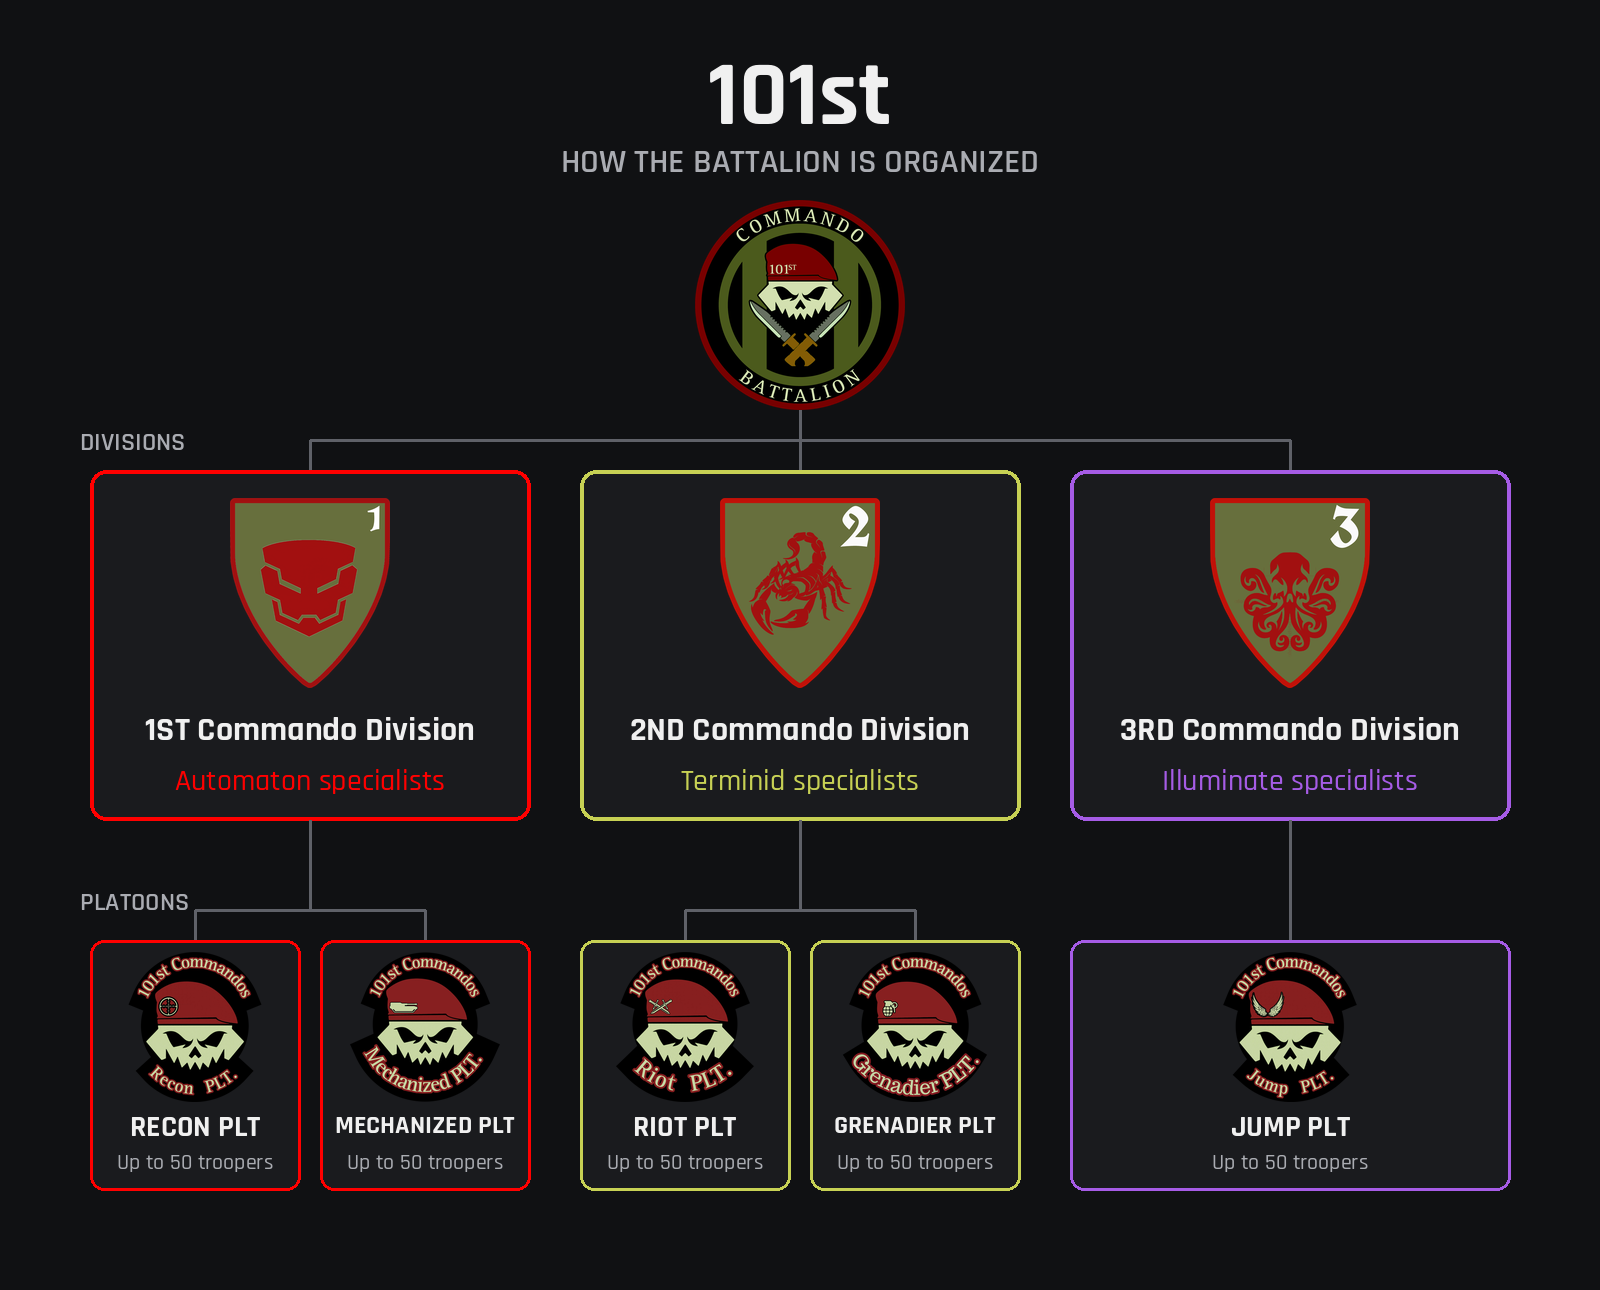
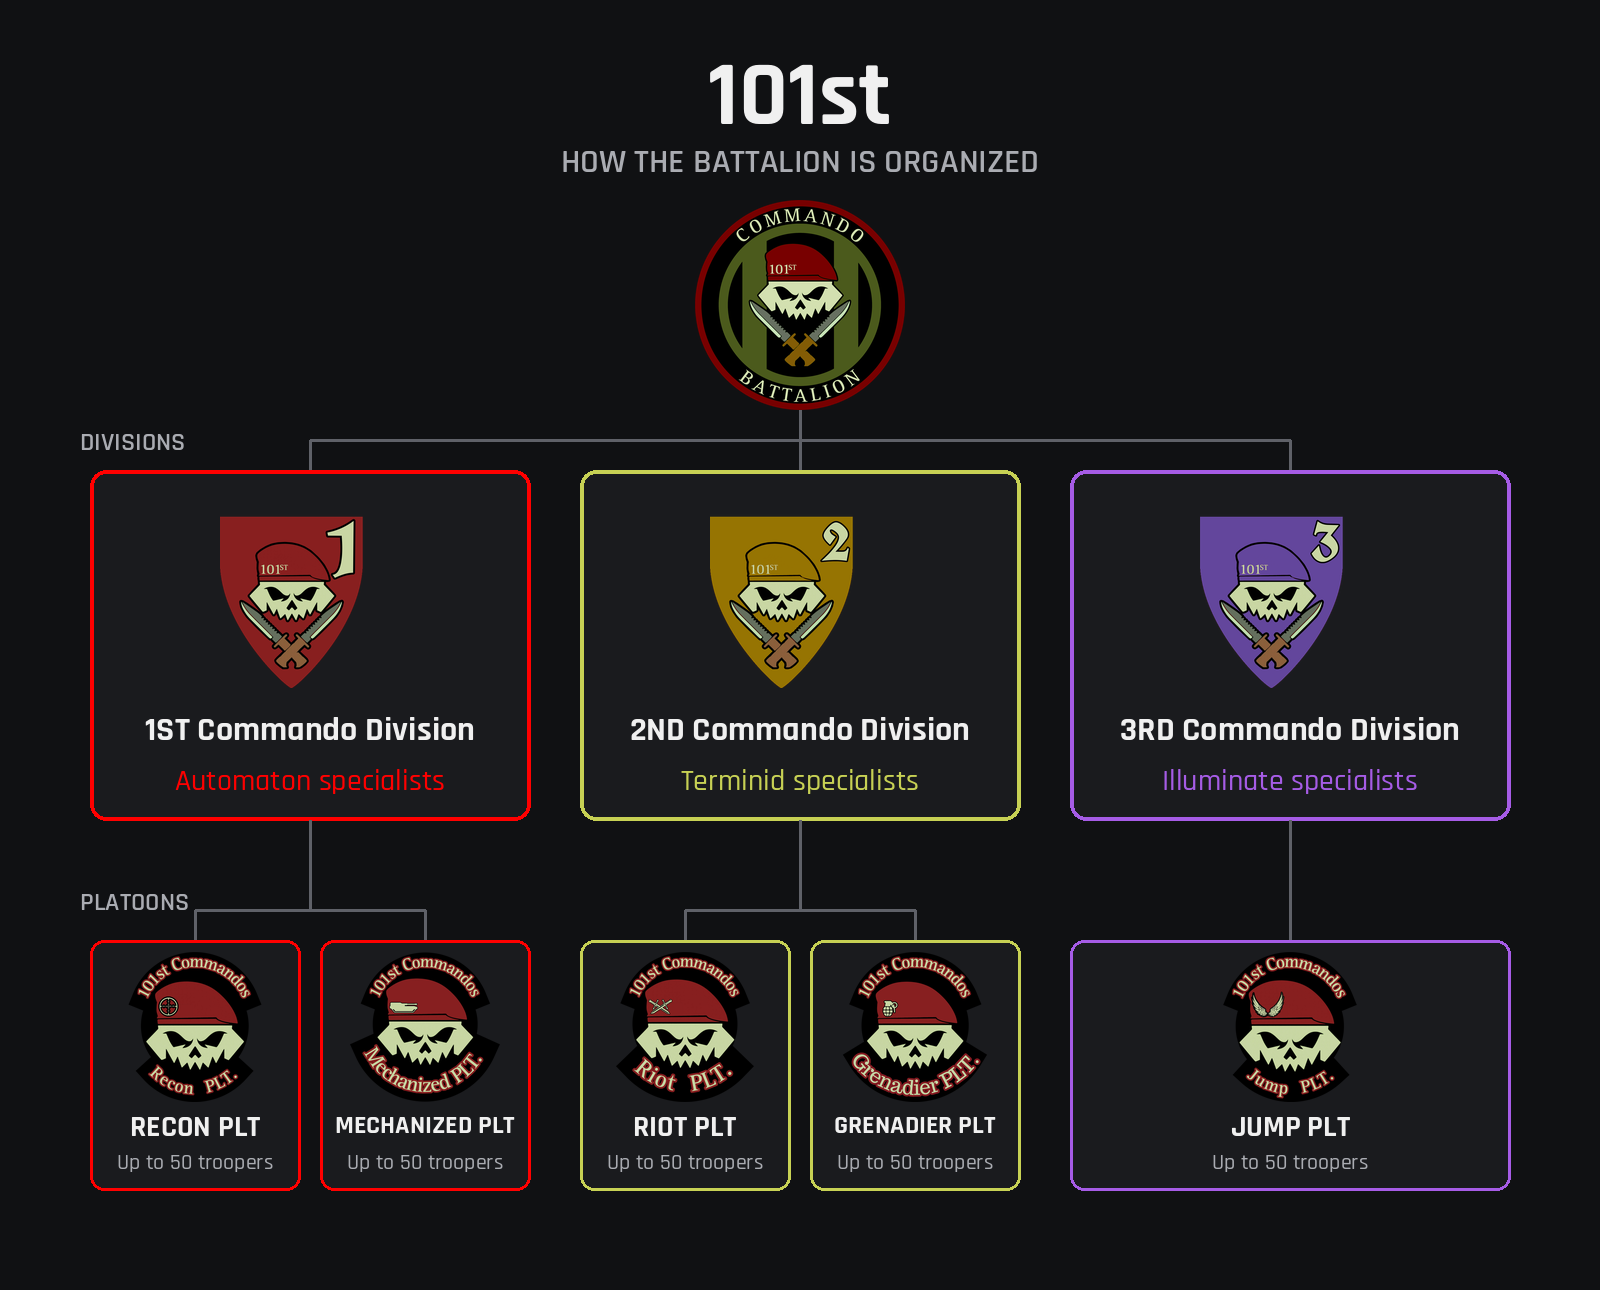
New division patches in structure chart; remove old olive division patches; CMDR Maximus title

Changed region(s): [[0.75, 0.3721, 0.875, 0.5581], [0.4375, 0.3721, 0.5625, 0.5271], [0.125, 0.3721, 0.25, 0.5271]]

diff --git a/index.html b/index.html
@@ -4,7 +4,7 @@
   <meta charset="utf-8">
   <meta name="viewport" content="width=device-width, initial-scale=1">
   <title>101st Commando Battalion | Helldivers 2 community</title>
-  <meta name="description" content="The 101st Commando Battalion is a player-run Helldivers 2 community led by Commander Maximus. Not an official Arrowhead site. Join the Discord at discord.gg/hpKS4ktKYc.">
+  <meta name="description" content="The 101st Commando Battalion is a player-run Helldivers 2 community led by CMDR Maximus. Not an official Arrowhead site. Join the Discord at discord.gg/hpKS4ktKYc.">
   <link rel="preconnect" href="https://fonts.googleapis.com">
   <link rel="preconnect" href="https://fonts.gstatic.com" crossorigin>
   <link href="https://fonts.googleapis.com/css2?family=Allerta+Stencil&family=Barlow:ital,wght@0,400;0,500;0,600;0,700;1,400&display=swap" rel="stylesheet">
@@ -41,7 +41,7 @@
           <h1 id="hero-title">101st Commando Battalion</h1>
           <p class="tagline">The 101st Commandos. Recon is in our blood.</p>
           <p class="lede">A community for players who want organised squads, plain callouts, and people who stick the landing together.</p>
-          <p class="byline">Run by Commander Maximus</p>
+          <p class="byline">Run by CMDR Maximus</p>
           <div class="hero-actions">
             <p class="cta-status">
               <a class="btn btn-waiting" href="https://discord.gg/hpKS4ktKYc" target="_blank" rel="noopener">Join the Discord</a>
@@ -65,7 +65,7 @@
         <div class="unit-layout">
           <div class="prose">
             <p>The 101st Commando Battalion is a Helldivers 2 community of three divisions fighting as one for Super Earth. Squads of four, every rank welcome, no diver left behind. Wear the beret, earn the knives.</p>
-            <p>It is run by Commander Maximus. This website is a front door for that community. It is not an official Arrowhead Game Studios site, and it is not endorsed by the developers.</p>
+            <p>It is run by CMDR Maximus. This website is a front door for that community. It is not an official Arrowhead Game Studios site, and it is not endorsed by the developers.</p>
             <p>Members come here to find reliable teammates: people who mark a patrol before they throw a stratagem, who talk in plain language, and who would rather extract together than chase a highlight. Bring a microphone if you have one, and a bit of patience for the rest of the squad.</p>
             <p>Nothing on this page is an in-game rank, a studio announcement, or a record of service. It is a fan community with a military-sci-fi name, full stop.</p>
           </div>
@@ -177,7 +177,7 @@
 
 Target: 50,000 kills combined across all fronts.
 
-Commander Maximus has ordered the 3rd Commando Division, the 2nd Commando Division, and the 1st Commando Division to take the fight to every front and bring back scalps. The objective is 50,000 kills, combined across the Illuminate, Terminid, and Automaton fronts.
+CMDR Maximus has ordered the 3rd Commando Division, the 2nd Commando Division, and the 1st Commando Division to take the fight to every front and bring back scalps. The objective is 50,000 kills, combined across the Illuminate, Terminid, and Automaton fronts.
 Deadline: Saturday.
 Prize: a US$25 gift card of their choice. The winning division picks its most deserving trooper to receive it.
 Give no quarter.
@@ -200,7 +200,7 @@ Give no quarter.
   <footer class="site-footer">
     <div class="wrap footer-grid">
       <p class="footer-name">101st Commando Battalion</p>
-      <p>A Helldivers 2 player community run by Commander Maximus. Fan-made. Not affiliated with Arrowhead Game Studios or the publishers of Helldivers 2. No official logos or game art are used on this page.</p>
+      <p>A Helldivers 2 player community run by CMDR Maximus. Fan-made. Not affiliated with Arrowhead Game Studios or the publishers of Helldivers 2. No official logos or game art are used on this page.</p>
       <p class="footer-meta">Helldivers is a trademark of its owners, used here only to name the game this community plays.</p>
     </div>
   </footer>
